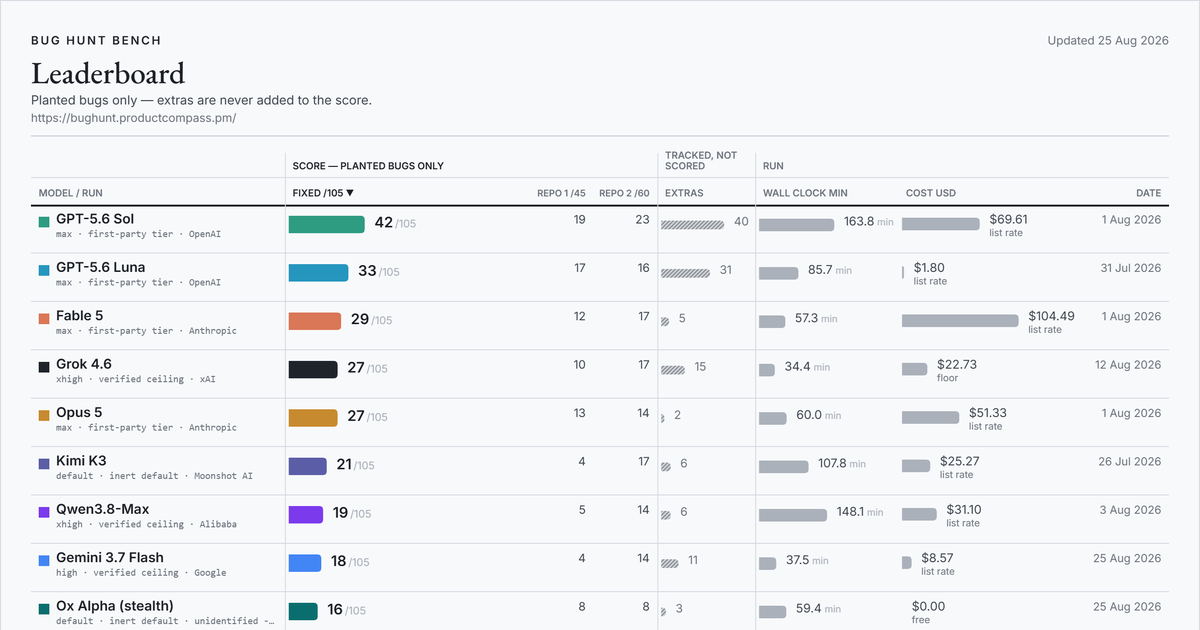
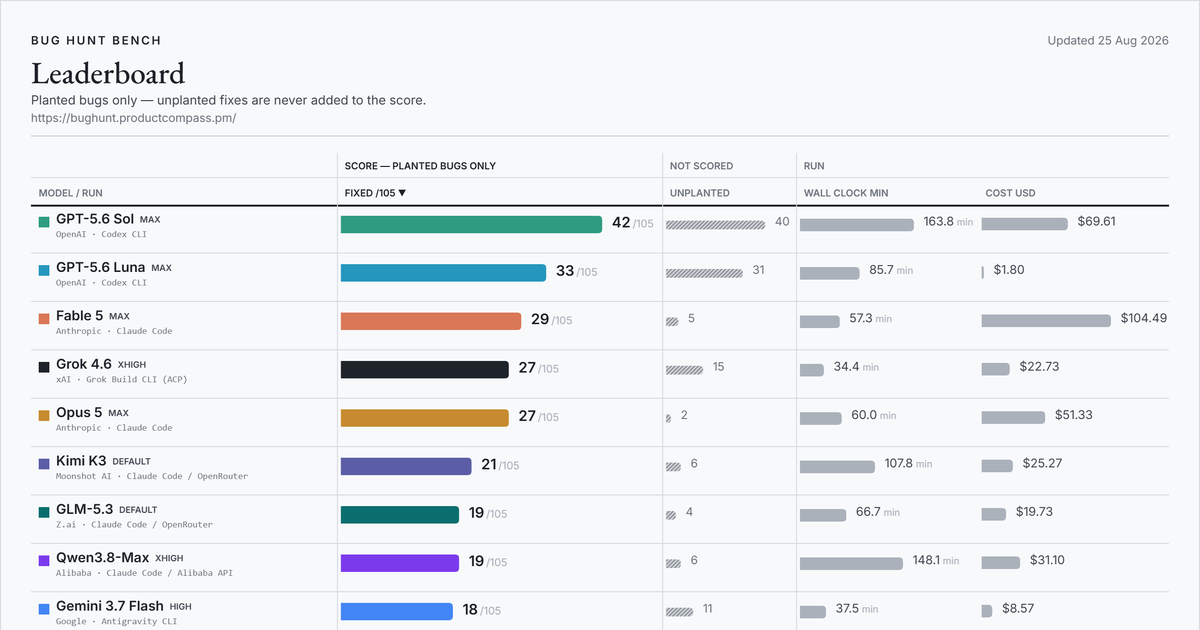
Board: solid green fixed / hollow red never-fixed at equal height, date column dropped from the table and the export, Extras renamed Unplanted, the bug-maxing reason spelled out, and the two-line group header that was padding the head out

diff --git a/assets/css/site.css b/assets/css/site.css
@@ -250,9 +250,13 @@ h1 em { font-style: normal; color: var(--accent); }
 /* the signature: a 105-tick measure rule.
    Two states, three channels each, because red and green alone is exactly the
    pair that collapses for a deuteranope and on a mono printer:
-     fixed by at least one model - hollow, green, two-thirds height
-     never fixed by anything     - solid,  red,   full height
-   The survivors are the story, so they carry the heavier mark. */
+     fixed by at least one model - SOLID  green, full height
+     never fixed by anything     - HOLLOW red,   full height
+   Equal height on purpose (Pawel, 2026-08-25): the rule reads as one measure of
+   105, and a short mark next to a tall one was being read as a smaller quantity
+   rather than a different state. Fill is the non-colour channel that survives a
+   deuteranope and a mono printer; an empty tick reads as an unfilled slot, which
+   is what an unfixed bug is. */
 .tickrule {
   grid-column: 1 / -1;
   grid-row: 4;
@@ -267,13 +271,13 @@ h1 em { font-style: normal; color: var(--accent); }
   border-radius: 1px;
 }
 .tickrule__plot .tick--fixed {
-  height: 62%;
-  background: transparent;
-  box-shadow: inset 0 0 0 1.5px var(--tick-fixed);
+  height: 100%;
+  background: var(--tick-fixed);
 }
 .tickrule__plot .tick--survivor {
   height: 100%;
-  background: var(--tick-survivor);
+  background: transparent;
+  box-shadow: inset 0 0 0 1.5px var(--tick-survivor);
 }
 .tickrule figcaption {
   font-size: 12.5px; color: var(--muted); margin-top: 10px;
@@ -287,10 +291,10 @@ h1 em { font-style: normal; color: var(--accent); }
   display: inline-block; width: 7px; vertical-align: -1px;
   margin-right: 5px; border-radius: 1px;
 }
-.tickkey--fixed .tickkey__mark {
-  height: 8px; box-shadow: inset 0 0 0 1.5px var(--tick-fixed);
+.tickkey--fixed .tickkey__mark { height: 11px; background: var(--tick-fixed); }
+.tickkey--survivor .tickkey__mark {
+  height: 11px; box-shadow: inset 0 0 0 1.5px var(--tick-survivor);
 }
-.tickkey--survivor .tickkey__mark { height: 11px; background: var(--tick-survivor); }
 
 /* ---------------------------------------------------------------- controls */
 
@@ -437,7 +441,7 @@ h1 em { font-style: normal; color: var(--accent); }
 }
 .board__caption {
   caption-side: top; text-align: left; font-size: 12.5px; color: var(--muted);
-  padding: 0 0 12px; max-width: 88ch;
+  padding: 0 0 8px; max-width: 88ch;
 }
 .board__caption em { color: var(--ink-2); font-style: italic; }
 
@@ -449,10 +453,10 @@ h1 em { font-style: normal; color: var(--accent); }
 
 .board thead th {
   font-size: 10px; font-weight: 700; letter-spacing: 0.11em; text-transform: uppercase;
-  color: var(--muted); vertical-align: bottom; padding-top: 12px; padding-bottom: 8px;
+  color: var(--muted); vertical-align: bottom; padding-top: 9px; padding-bottom: 7px;
 }
 .board thead tr.groups th {
-  padding-block: 9px 6px; border-bottom: 1px solid var(--hairline);
+  padding-block: 6px 5px; border-bottom: 1px solid var(--hairline);
   color: var(--ink-2); font-size: 10px; letter-spacing: 0.12em; text-align: left;
   /* "Tracked, not scored" heads one column now, so the label wraps inside it
      rather than running over the neighbour it does not describe */

diff --git a/index.html b/index.html
@@ -15,28 +15,28 @@
      <html> before the first paint, so a dark-theme visitor never sees a white
      flash. It is a file rather than an inline block because the CSP has no
      'unsafe-inline'. -->
-<script src="/assets/js/theme-boot.js?v=1f04c8a829"></script>
+<script src="/assets/js/theme-boot.js?v=ac7c2c0461"></script>
 
 <meta property="og:type" content="website">
 <meta property="og:site_name" content="Bug Hunt Bench">
 <meta property="og:title" content="Bug Hunt Bench — frontier coding models against real planted bugs">
 <meta property="og:description" content="A blind-graded benchmark of frontier coding models on real bugs planted in two production codebases. The score counts planted bugs only; extra fixes are tracked separately and never added.">
 <meta property="og:url" content="https://bughunt.productcompass.pm/">
-<meta property="og:image" content="https://bughunt.productcompass.pm/og-image.png?v=2026-08-25-26ba3dbd">
+<meta property="og:image" content="https://bughunt.productcompass.pm/og-image.png?v=2026-08-25-1ce22dc8">
 <meta property="og:image:width" content="1200">
 <meta property="og:image:height" content="630">
 <meta property="og:image:alt" content="Bug Hunt Bench leaderboard">
 <meta name="twitter:card" content="summary_large_image">
 <meta name="twitter:title" content="Bug Hunt Bench — frontier coding models against real planted bugs">
 <meta name="twitter:description" content="A blind-graded benchmark of frontier coding models on real bugs planted in two production codebases. The score counts planted bugs only.">
-<meta name="twitter:image" content="https://bughunt.productcompass.pm/og-image.png?v=2026-08-25-26ba3dbd">
+<meta name="twitter:image" content="https://bughunt.productcompass.pm/og-image.png?v=2026-08-25-1ce22dc8">
 <meta name="twitter:creator" content="@PawelHuryn">
 
 <link rel="icon" href="/assets/favicon.svg" type="image/svg+xml">
 <link rel="preconnect" href="https://fonts.googleapis.com">
 <link rel="preconnect" href="https://fonts.gstatic.com" crossorigin>
 <link rel="stylesheet" href="https://fonts.googleapis.com/css2?family=EB+Garamond:ital,wght@0,400;0,500;1,400&amp;family=Inter:wght@400;500;600&amp;display=swap">
-<link rel="stylesheet" href="/assets/css/site.css?v=1f04c8a829">
+<link rel="stylesheet" href="/assets/css/site.css?v=ac7c2c0461">
 
 <!-- dateModified and url are patched at runtime from data/benchmark.json; keep the static values in sync anyway. -->
 <script type="application/ld+json" id="dataset-schema">
@@ -74,7 +74,7 @@
   ]
 }
 </script>
-<script type="module" src="/assets/js/main.js?v=1f04c8a829"></script>
+<script type="module" src="/assets/js/main.js?v=ac7c2c0461"></script>
 </head>
 <body>
 <a class="skip-link" href="#leaderboard">Skip to the leaderboard</a>

diff --git a/assets/js/export-png.js b/assets/js/export-png.js
@@ -12,9 +12,9 @@ import {
   COLUMNS, GROUPS, TOTALS, BAR_SCALE_NOTE, NOTE_MARK, fmtCost, fmtWall, fmtInt,
   fmtDate, barRatio, barScales, effortSuffix, compareRuns, firstSentence,
   costSentence, segmentsText,
-} from './format.js?v=1f04c8a829';
-import { scatterLayout, AXES } from './scatter.js?v=1f04c8a829';
-import { runColor, activeTheme } from './theme.js?v=1f04c8a829';
+} from './format.js?v=ac7c2c0461';
+import { scatterLayout, AXES } from './scatter.js?v=ac7c2c0461';
+import { runColor, activeTheme } from './theme.js?v=ac7c2c0461';
 
 const SCALE = 2;
 const PAD = 32;
@@ -297,8 +297,6 @@ function drawTable(ctx, T, runs, state, w) {
         // one generated sentence in the footer, as it is in the key on the page
         const end = drawBar(c, top + 13, barRatio(run.cost_usd, costMax), 13, T.bar, 56);
         text(ctx, fmtCost(run.cost_usd), end + 10, baseline + 2, `12.5px ${SANS}`, T.ink2);
-      } else if (c.key === 'date') {
-        text(ctx, fmtDate(run.date), rightX, baseline, `11.5px ${SANS}`, T.muted, 'right');
       } else {
         const v = run[c.key];
         text(ctx, fmtInt(v), rightX, baseline, `12px ${SANS}`, v === 0 ? T.neutral : T.ink2, 'right');
@@ -476,7 +474,7 @@ export async function exportView({
     isChart
       ? `${runs.length} of ${allRuns.length} runs shown — ${presetName}. ${axis.id === 'cost' ? 'Cost on a logarithmic axis' : 'Wall clock on a linear axis'}; the score axis stops above the board's best run, which is out of 105.`
       : `${runs.length} of ${allRuns.length} runs shown — ${presetName}. Sorted by ${sortLabel}.`,
-    'Score = planted bugs fixed, verified blind against a withheld answer key. Extras are real defects that were never planted; they are tracked, never added to the score.',
+    'Score = planted bugs fixed, verified blind against a withheld answer key. Unplanted defects are real, but they are counted separately and never added to the score.',
     // the same sentence the page carries, because an exported PNG travels alone
     isChart ? null : BAR_SCALE_NOTE,
     costLine || null,
@@ -511,7 +509,7 @@ export async function exportView({
   ctx.strokeRect(0.5, 0.5, w - 1, h - 1);
 
   const title = isChart ? axis.chartTitle : 'Leaderboard';
-  const subtitle = 'Planted bugs only — extras are never added to the score.';
+  const subtitle = 'Planted bugs only — unplanted fixes are never added to the score.';
   ctx.__y = drawHeader(ctx, T, w, title, subtitle, { updatedLong: fmtDate(meta.updated) }, siteUrl);
 
   if (isChart) drawScatter(ctx, T, runs, allRuns, w, axis, defLines);

diff --git a/assets/js/main.js b/assets/js/main.js
@@ -9,12 +9,12 @@
 import {
   COLUMNS, BAR_SCALE_NOTE, NOTE_MARK, costSentence, firstSentence,
   caveatHref, defHref, methodHref, slugify, fmtDate, el,
-} from './format.js?v=1f04c8a829';
-import { renderHead, renderBody, renderColgroup } from './table.js?v=1f04c8a829';
-import { renderScatter, AXES } from './scatter.js?v=1f04c8a829';
-import { renderPicker } from './selector.js?v=1f04c8a829';
-import { exportView } from './export-png.js?v=1f04c8a829';
-import { initTheme, hasAdjustedColors } from './theme.js?v=1f04c8a829';
+} from './format.js?v=ac7c2c0461';
+import { renderHead, renderBody, renderColgroup } from './table.js?v=ac7c2c0461';
+import { renderScatter, AXES } from './scatter.js?v=ac7c2c0461';
+import { renderPicker } from './selector.js?v=ac7c2c0461';
+import { exportView } from './export-png.js?v=ac7c2c0461';
+import { initTheme, hasAdjustedColors } from './theme.js?v=ac7c2c0461';
 
 const PRESETS = {
   featured: { test: (r) => r.featured === true, name: 'Featured runs' },
@@ -157,8 +157,9 @@ function renderHero() {
 
      Two states, and each carries three channels, because red-green is exactly
      the pair that fails for a deuteranope and on a mono printer: a bug fixed by
-     at least one model is a HOLLOW GREEN tick at two-thirds height; a bug
-     nothing has ever fixed is a SOLID RED tick at full height. Strip the colour
+     at least one model is a SOLID GREEN tick; a bug nothing has ever fixed is a
+     HOLLOW RED tick. Equal height, so the rule reads as one measure of 105 and
+     the difference is fill, not size (Pawel, 2026-08-25). Strip the colour
      and fill plus height still separate them; strip everything and the caption
      still names both. The survivors are the story, so they get the heavy mark. */
   const plot = $('tickrule-plot');
@@ -175,14 +176,14 @@ function renderHero() {
     ' planted bugs. ',
     el('span', { class: 'tickkey tickkey--fixed' }, [
       el('i', { class: 'tickkey__mark', 'aria-hidden': 'true' }),
-      'Hollow green — fixed by at least one model, in any run to date',
+      'Solid green — fixed by at least one model, in any run to date',
     ]),
     ' (',
     el('b', { text: String(survivorsFrom) }),
     '). ',
     el('span', { class: 'tickkey tickkey--survivor' }, [
       el('i', { class: 'tickkey__mark', 'aria-hidden': 'true' }),
-      'Solid red — never fixed, by anything',
+      'Hollow red — never fixed, by anything',
     ]),
     ' (',
     el('b', { text: String(m.survivors) }),

diff --git a/method.html b/method.html
@@ -13,30 +13,30 @@
 
 <!-- Same render-blocking theme stamp as the board: both pages share the theme,
      and a reader who picked dark on one must not get a white flash on the other. -->
-<script src="/assets/js/theme-boot.js?v=1f04c8a829"></script>
+<script src="/assets/js/theme-boot.js?v=ac7c2c0461"></script>
 
 <meta property="og:type" content="article">
 <meta property="og:site_name" content="Bug Hunt Bench">
 <meta property="og:title" content="Method, caveats and definitions — Bug Hunt Bench">
 <meta property="og:description" content="How Bug Hunt Bench is run and graded, what the board cannot tell you, and what every column on it means.">
 <meta property="og:url" content="https://bughunt.productcompass.pm/method">
-<meta property="og:image" content="https://bughunt.productcompass.pm/og-image.png?v=2026-08-25-26ba3dbd">
+<meta property="og:image" content="https://bughunt.productcompass.pm/og-image.png?v=2026-08-25-1ce22dc8">
 <meta property="og:image:width" content="1200">
 <meta property="og:image:height" content="630">
 <meta property="og:image:alt" content="Bug Hunt Bench leaderboard">
 <meta name="twitter:card" content="summary_large_image">
 <meta name="twitter:title" content="Method, caveats and definitions — Bug Hunt Bench">
 <meta name="twitter:description" content="How Bug Hunt Bench is run and graded, what the board cannot tell you, and what every column on it means.">
-<meta name="twitter:image" content="https://bughunt.productcompass.pm/og-image.png?v=2026-08-25-26ba3dbd">
+<meta name="twitter:image" content="https://bughunt.productcompass.pm/og-image.png?v=2026-08-25-1ce22dc8">
 <meta name="twitter:creator" content="@PawelHuryn">
 
 <link rel="icon" href="/assets/favicon.svg" type="image/svg+xml">
 <link rel="preconnect" href="https://fonts.googleapis.com">
 <link rel="preconnect" href="https://fonts.gstatic.com" crossorigin>
 <link rel="stylesheet" href="https://fonts.googleapis.com/css2?family=EB+Garamond:ital,wght@0,400;0,500;1,400&amp;family=Inter:wght@400;500;600&amp;display=swap">
-<link rel="stylesheet" href="/assets/css/site.css?v=1f04c8a829">
+<link rel="stylesheet" href="/assets/css/site.css?v=ac7c2c0461">
 
-<script type="module" src="/assets/js/method.js?v=1f04c8a829"></script>
+<script type="module" src="/assets/js/method.js?v=ac7c2c0461"></script>
 </head>
 <body>
 <a class="skip-link" href="#method">Skip to the method</a>

diff --git a/assets/js/format.js b/assets/js/format.js
@@ -198,6 +198,9 @@ export function glossaryTerm(key) {
     const k = key.slice(7);
     return 'Effort: ' + (EFFORT_TERM[k] || k.replace(/_/g, ' '));
   }
+  // the board's column heading and the glossary term must be the same word, or a
+  // reader following a definition link lands on vocabulary the table never used
+  if (key === 'extras') return 'Unplanted';
   const words = key.replace(/_/g, ' ');
   return words.charAt(0).toUpperCase() + words.slice(1);
 }
@@ -248,12 +251,11 @@ export function fmtInt(v) {
     separately because the canvas has no line wrapping and the model column needs
     more room there than it does on screen. */
 export const COLUMNS = [
-  { key: 'model', label: 'Model / run', group: 'run', kind: 'text', align: 'left', pct: 24, w: 300 },
-  { key: 'fixed', label: 'Fixed', unit: '/105', group: 'score', kind: 'score', align: 'left', pct: 26, w: 300 },
-  { key: 'extras', label: 'Extras', group: 'not', kind: 'extras', align: 'left', pct: 11, w: 130 },
-  { key: 'wall_min', label: 'Wall clock', unit: 'min', group: 'meta', kind: 'wall', align: 'left', pct: 14.5, w: 170 },
-  { key: 'cost_usd', label: 'Cost', unit: 'usd', group: 'meta', kind: 'cost', align: 'left', pct: 15.5, w: 190 },
-  { key: 'date', label: 'Date', group: 'meta', kind: 'date', pct: 9, w: 100 },
+  { key: 'model', label: 'Model / run', group: 'run', kind: 'text', align: 'left', pct: 26, w: 320 },
+  { key: 'fixed', label: 'Fixed', unit: '/105', group: 'score', kind: 'score', align: 'left', pct: 29, w: 340 },
+  { key: 'extras', label: 'Unplanted', group: 'not', kind: 'extras', align: 'left', pct: 12, w: 140 },
+  { key: 'wall_min', label: 'Wall clock', unit: 'min', group: 'meta', kind: 'wall', align: 'left', pct: 16, w: 190 },
+  { key: 'cost_usd', label: 'Cost', unit: 'usd', group: 'meta', kind: 'cost', align: 'left', pct: 17, w: 200 },
 ];
 
 /* Six columns, and the ones that are NOT here are a decision, not an oversight.
@@ -267,7 +269,7 @@ export const COLUMNS = [
 export const GROUPS = [
   { id: 'run', label: '', cls: 'g-run' },
   { id: 'score', label: 'Score — planted bugs only', cls: 'g-score', def: 'fixed' },
-  { id: 'not', label: 'Tracked, not scored', cls: 'g-not', def: 'extras' },
+  { id: 'not', label: 'Not scored', cls: 'g-not', def: 'extras' },
   { id: 'meta', label: 'Run', cls: 'g-meta' },
 ];
 

diff --git a/assets/js/table.js b/assets/js/table.js
@@ -24,17 +24,16 @@
    costs no layout and needs no marker. */
 
 import {
-  COLUMNS, GROUPS, TOTALS, fmtCost, fmtWall, fmtInt, fmtDate,
+  COLUMNS, GROUPS, TOTALS, fmtCost, fmtWall, fmtInt,
   barRatio, barScales, effortSuffix, effortDefKey, defHref, el, svgEl, compareRuns,
-} from './format.js?v=1f04c8a829';
-import { runColor } from './theme.js?v=1f04c8a829';
+} from './format.js?v=ac7c2c0461';
+import { runColor } from './theme.js?v=ac7c2c0461';
 
 const MOBILE_LABEL = {
   fixed: 'Fixed of 105',
-  extras: 'Extras (not scored)',
+  extras: 'Unplanted (not scored)',
   wall_min: 'Wall clock (min)',
   cost_usd: 'Cost',
-  date: 'Date',
 };
 
 function arrow(dir) {
@@ -250,10 +249,14 @@ export function renderBody(bodyEl, runs, state, glossary) {
     tr.appendChild(extrasCell(run, extrasMax));
     tr.appendChild(wallCell(run, wallMax));
     tr.appendChild(costCell(run, costMax));
-    tr.appendChild(el('td', { role: 'cell', 'data-label': MOBILE_LABEL.date }, [
-      el('time', { datetime: run.date, text: fmtDate(run.date) }),
-    ]));
 
+    // The head is generated from COLUMNS but the body is appended by hand, so the two
+    // can drift: dropping the date column from COLUMNS left this row one cell longer
+    // than its header (2026-08-25). Fail loudly in that case rather than shipping a
+    // table whose columns do not line up with their headings.
+    if (tr.children.length !== COLUMNS.length) {
+      throw new Error(`row has ${tr.children.length} cells, COLUMNS has ${COLUMNS.length}`);
+    }
     bodyEl.appendChild(tr);
   });
 

diff --git a/assets/js/scatter.js b/assets/js/scatter.js
@@ -13,8 +13,8 @@
 
 import {
   pointLabels, fmtCost, fmtWall, fmtDate, COST_KIND_LABEL, NOTE_MARK, svgEl, el, measureText,
-} from './format.js?v=1f04c8a829';
-import { runColor } from './theme.js?v=1f04c8a829';
+} from './format.js?v=ac7c2c0461';
+import { runColor } from './theme.js?v=ac7c2c0461';
 
 const LABEL_FONT = '10.5px Inter, system-ui, sans-serif';
 const LOG_TICKS = [0.2, 0.5, 1, 2, 5, 10, 20, 50, 100, 200, 500];
@@ -227,7 +227,7 @@ function tooltipContent(p, axis) {
     frag.appendChild(cost());
     frag.appendChild(wall());
   }
-  frag.appendChild(tipRow('Extras, not scored', String(r.extras)));
+  frag.appendChild(tipRow('Unplanted, not scored', String(r.extras)));
   frag.appendChild(tipRow('Claimed only', String(r.claimed_only)));
   frag.appendChild(tipRow('Run date', fmtDate(r.date)));
   if (r.wall_note) frag.appendChild(el('div', { class: 'tip-note', text: `${NOTE_MARK} ${r.wall_note}` }));

diff --git a/assets/js/selector.js b/assets/js/selector.js
@@ -1,8 +1,8 @@
 /* Run picker: native checkboxes grouped by vendor, so keyboard and screen-reader
    behaviour is the platform's, not ours. */
 
-import { el, fmtDate, effortSuffix } from './format.js?v=1f04c8a829';
-import { runColor } from './theme.js?v=1f04c8a829';
+import { el, fmtDate, effortSuffix } from './format.js?v=ac7c2c0461';
+import { runColor } from './theme.js?v=ac7c2c0461';
 
 export function renderPicker(gridEl, runs, selected, onToggle, onVendorToggle) {
   gridEl.textContent = '';

diff --git a/assets/js/method.js b/assets/js/method.js
@@ -8,8 +8,8 @@
    straight at them: a reader who clicks "cost tag" under the table should land
    on that definition, not at the top of this page. */
 
-import { glossaryTerm, fmtDate, el } from './format.js?v=1f04c8a829';
-import { initTheme } from './theme.js?v=1f04c8a829';
+import { glossaryTerm, fmtDate, el } from './format.js?v=ac7c2c0461';
+import { initTheme } from './theme.js?v=ac7c2c0461';
 
 const $ = (id) => document.getElementById(id);
 
